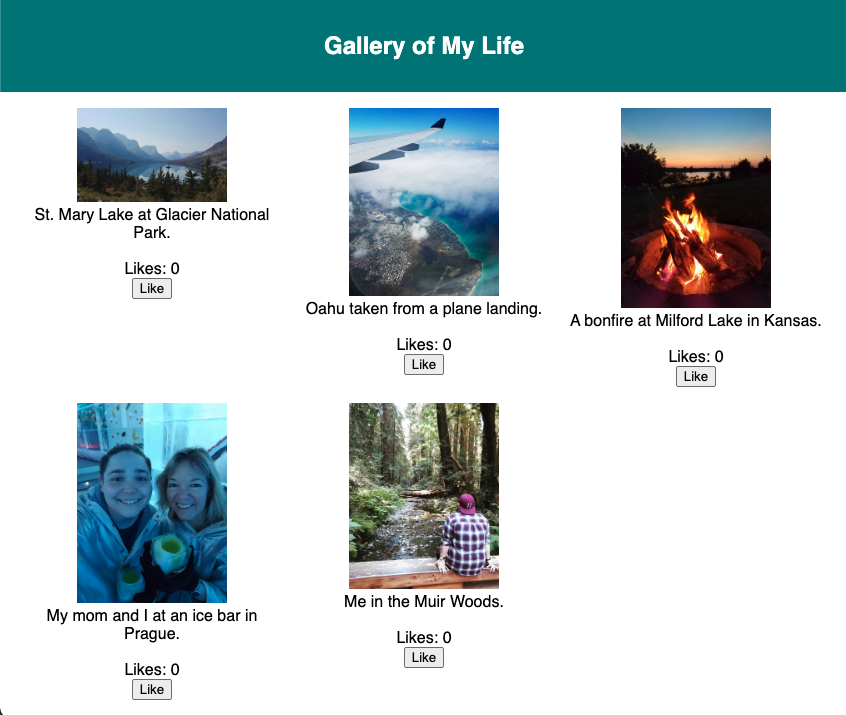
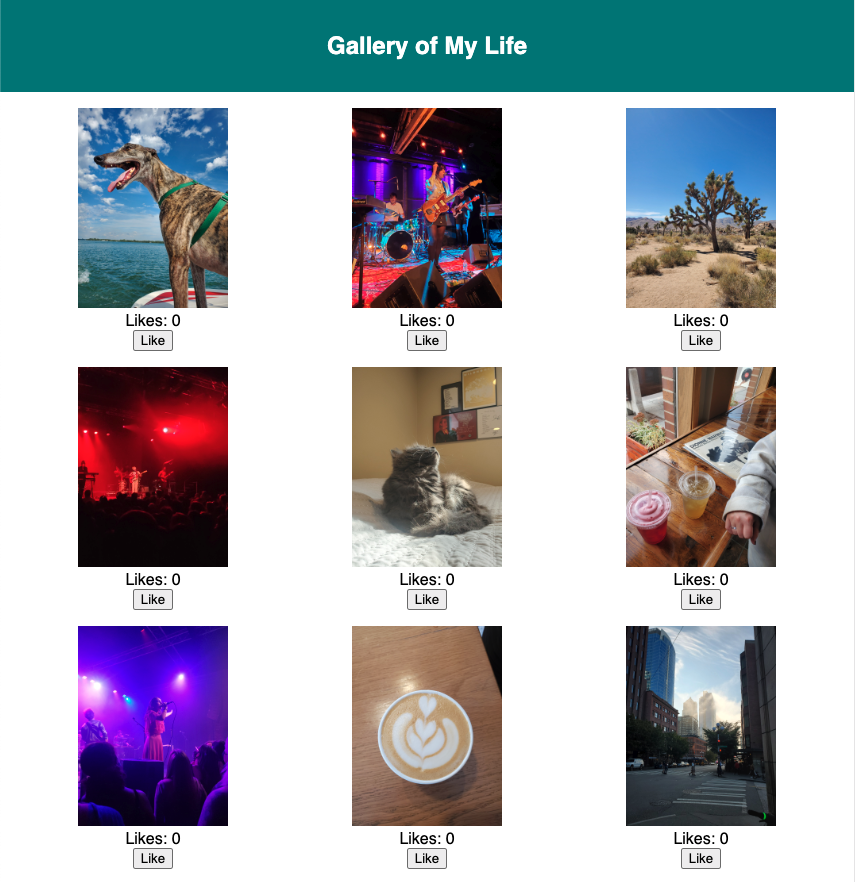
Updated photos and screenshot.

diff --git a/server/modules/gallery.data.js b/server/modules/gallery.data.js
@@ -1,27 +1,47 @@
 const galleryItems = [
     { id: 1,
-      path: 'images/glacier.jpeg',
-      description: 'St. Mary Lake at Glacier National Park.',
+      path: 'images/captaindan.jpg',
+      description: 'Dan on a boat at Pickerel Lake.',
       likes: 0
     },
     { id: 2,
-      path: 'images/home.jpeg',
-      description: 'Oahu taken from a plane landing.',
+      path: 'images/deepseadiver.jpg',
+      description: 'Deep Sea Diver at Space in Evanston, IL.',
       likes: 0
     },
     { id: 3,
-      path: 'images/kansas.jpeg',
-      description: 'A bonfire at Milford Lake in Kansas.',
+      path: 'images/joshuatree.jpg',
+      description: 'Joshua Tree National Park.',
       likes: 0
     },
     { id: 4,
-      path: 'images/prague.jpeg',
-      description: 'My mom and I at an ice bar in Prague.',
+      path: 'images/snailmail.jpg',
+      description: 'Snail Mail at First Ave.',
       likes: 0
     },
     { id: 5,
-      path: 'images/muirwoods.jpeg',
-      description: 'Me in the Muir Woods.',
+      path: 'images/chloe.jpg',
+      description: 'My cat, Chloe.',
+      likes: 0
+    },
+    { id: 6,
+      path: 'images/caydence.jpg',
+      description: 'Iced teas and records at Caydence Coffee.',
+      likes: 0
+    },
+    { id: 7,
+      path: 'images/samia.jpg',
+      description: 'Samia at Fine Line.',
+      likes: 0
+    },
+    { id: 8,
+      path: 'images/coffee.jpg',
+      description: 'A phenomenal coffee in Seattle.',
+      likes: 0
+    },
+    { id: 9,
+      path: 'images/seattle.jpg',
+      description: 'Downtown Seattle.',
       likes: 0
     },
 ];

diff --git a/src/components/App/App.jsx b/src/components/App/App.jsx
@@ -3,7 +3,6 @@ import './App.css';
 import axios from 'axios';
 import Container from '@mui/material/Container';
 import GalleryList from '../GalleryList/GalleryList';
-import GalleryItem from '../GalleryItem/GalleryItem';
 
 
 function App() {

diff --git a/README.md b/README.md
@@ -2,7 +2,7 @@
 
 ## Description
 
-Welcome to my React Photo Gallery! Please enjoy a small collection of some of my favorite memories. Clicking on each photo will toggle between displaying and hiding its description. If you appreciate one of my photos, clicking the Like button will send your like to the server and update the like count on the gallery page. Thanks for stopping by!
+Welcome to my React Photo Gallery! Please enjoy a small collection of some of my favorite photos and memories. Clicking on each photo will toggle between displaying and hiding its description. If you appreciate one of my photos, clicking the Like button will send your like to the server and update the like count on the gallery page. Thanks for stopping by!
 
 ## Screenshot
 
